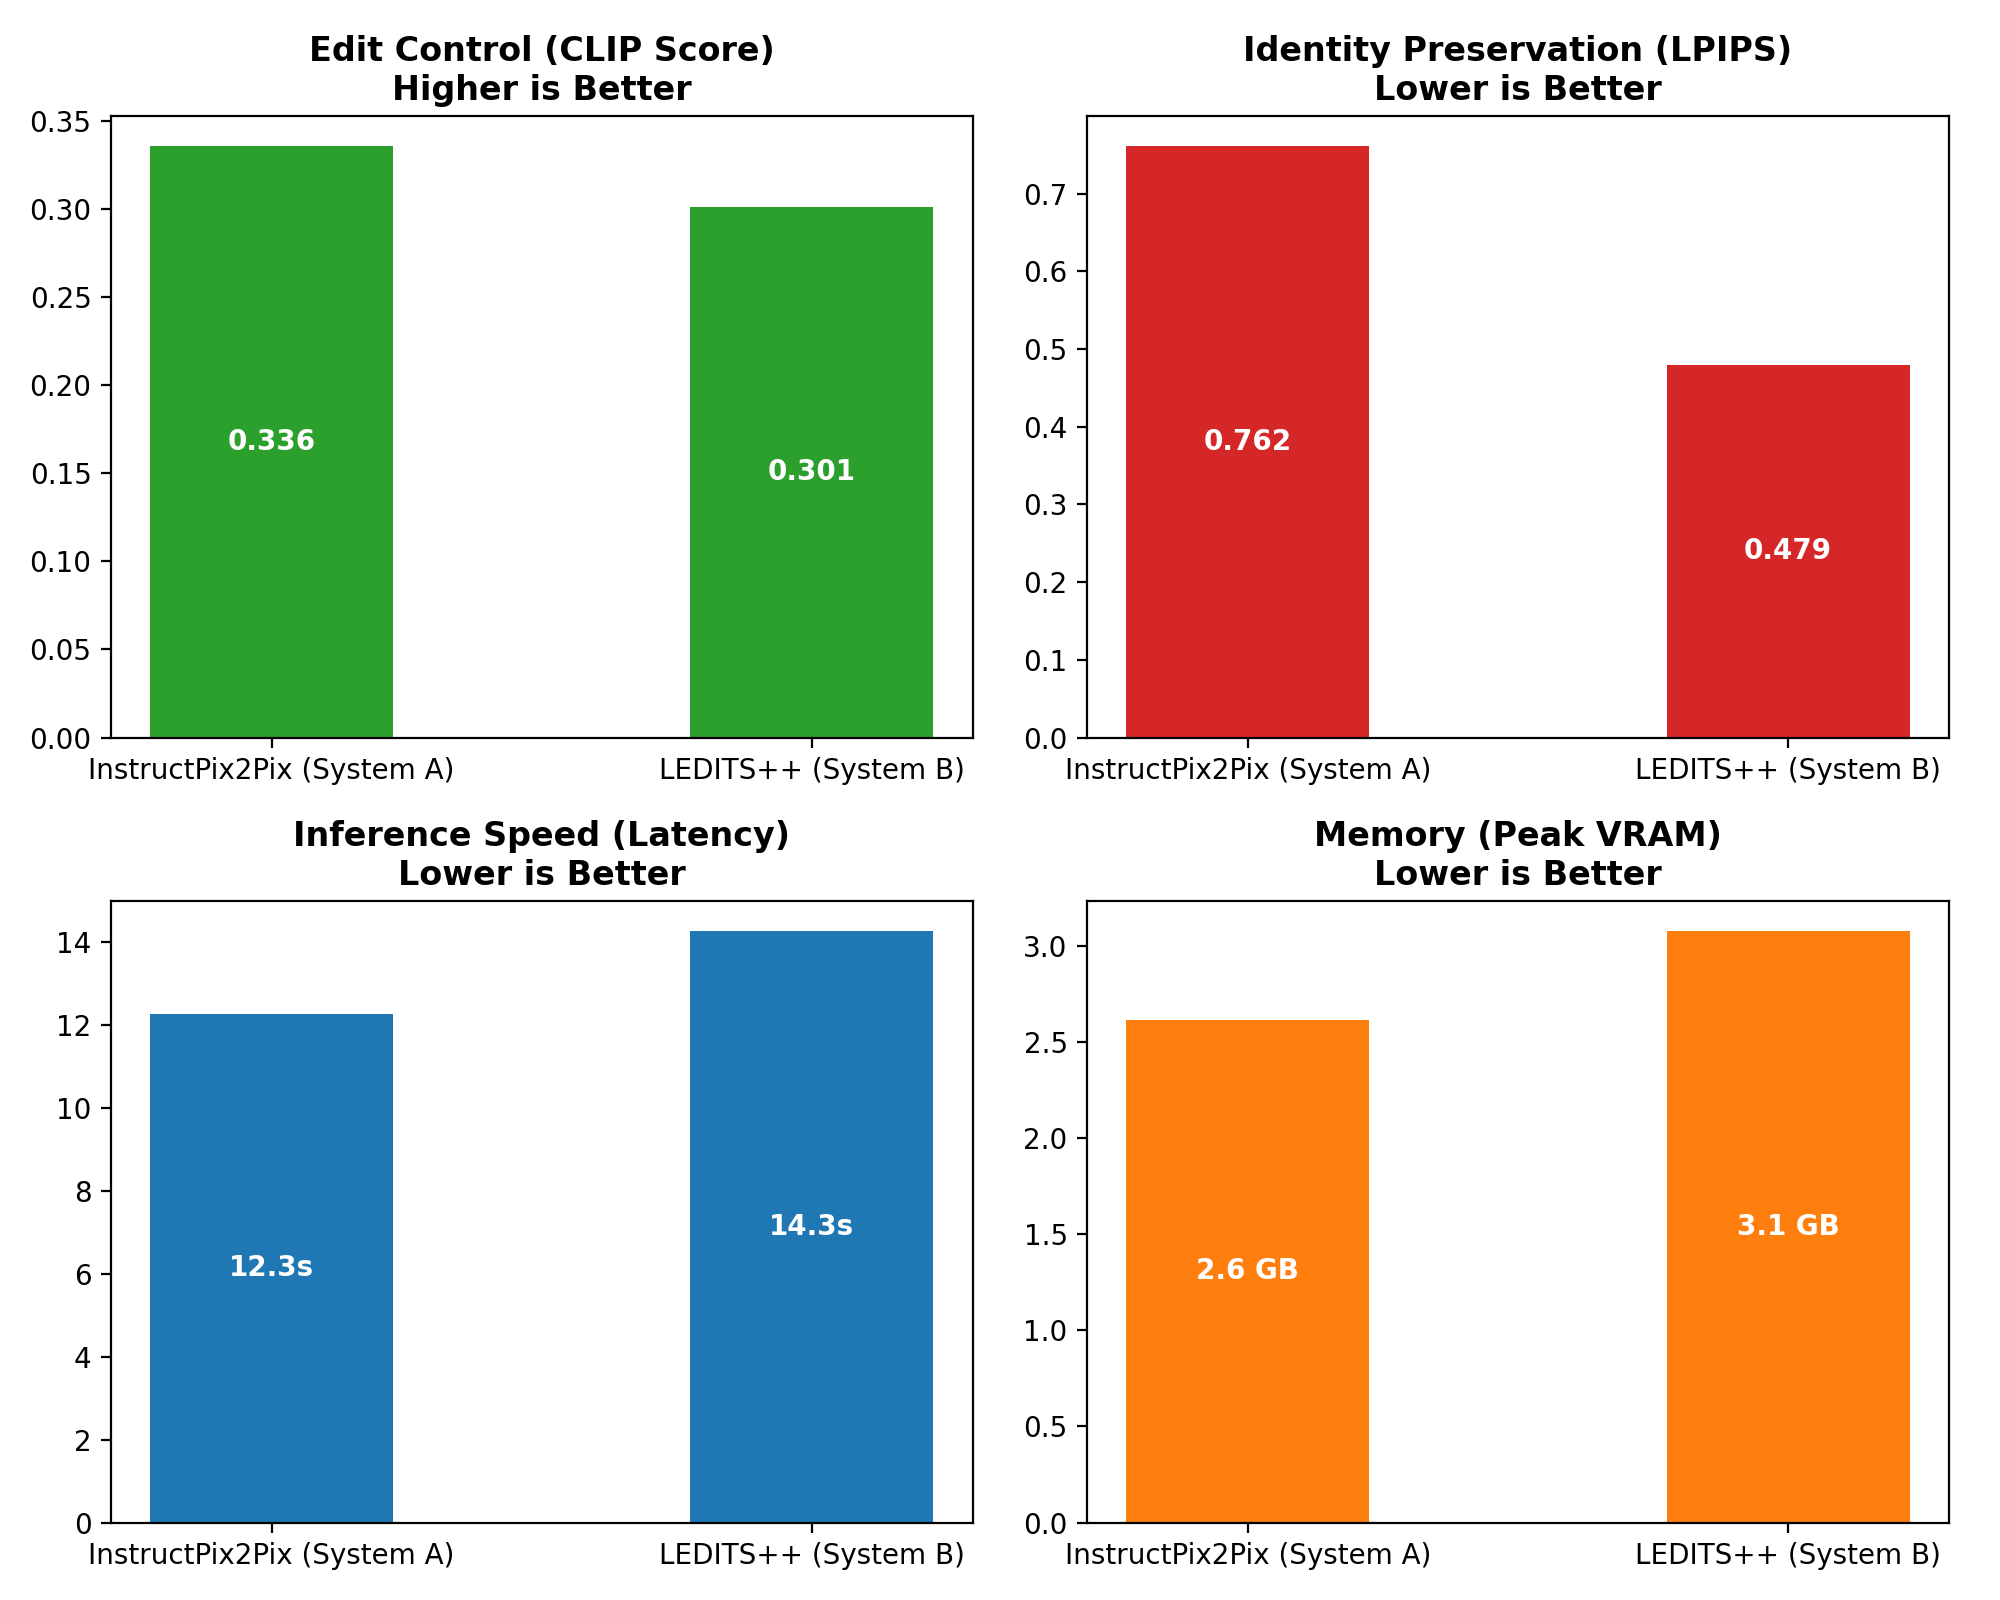
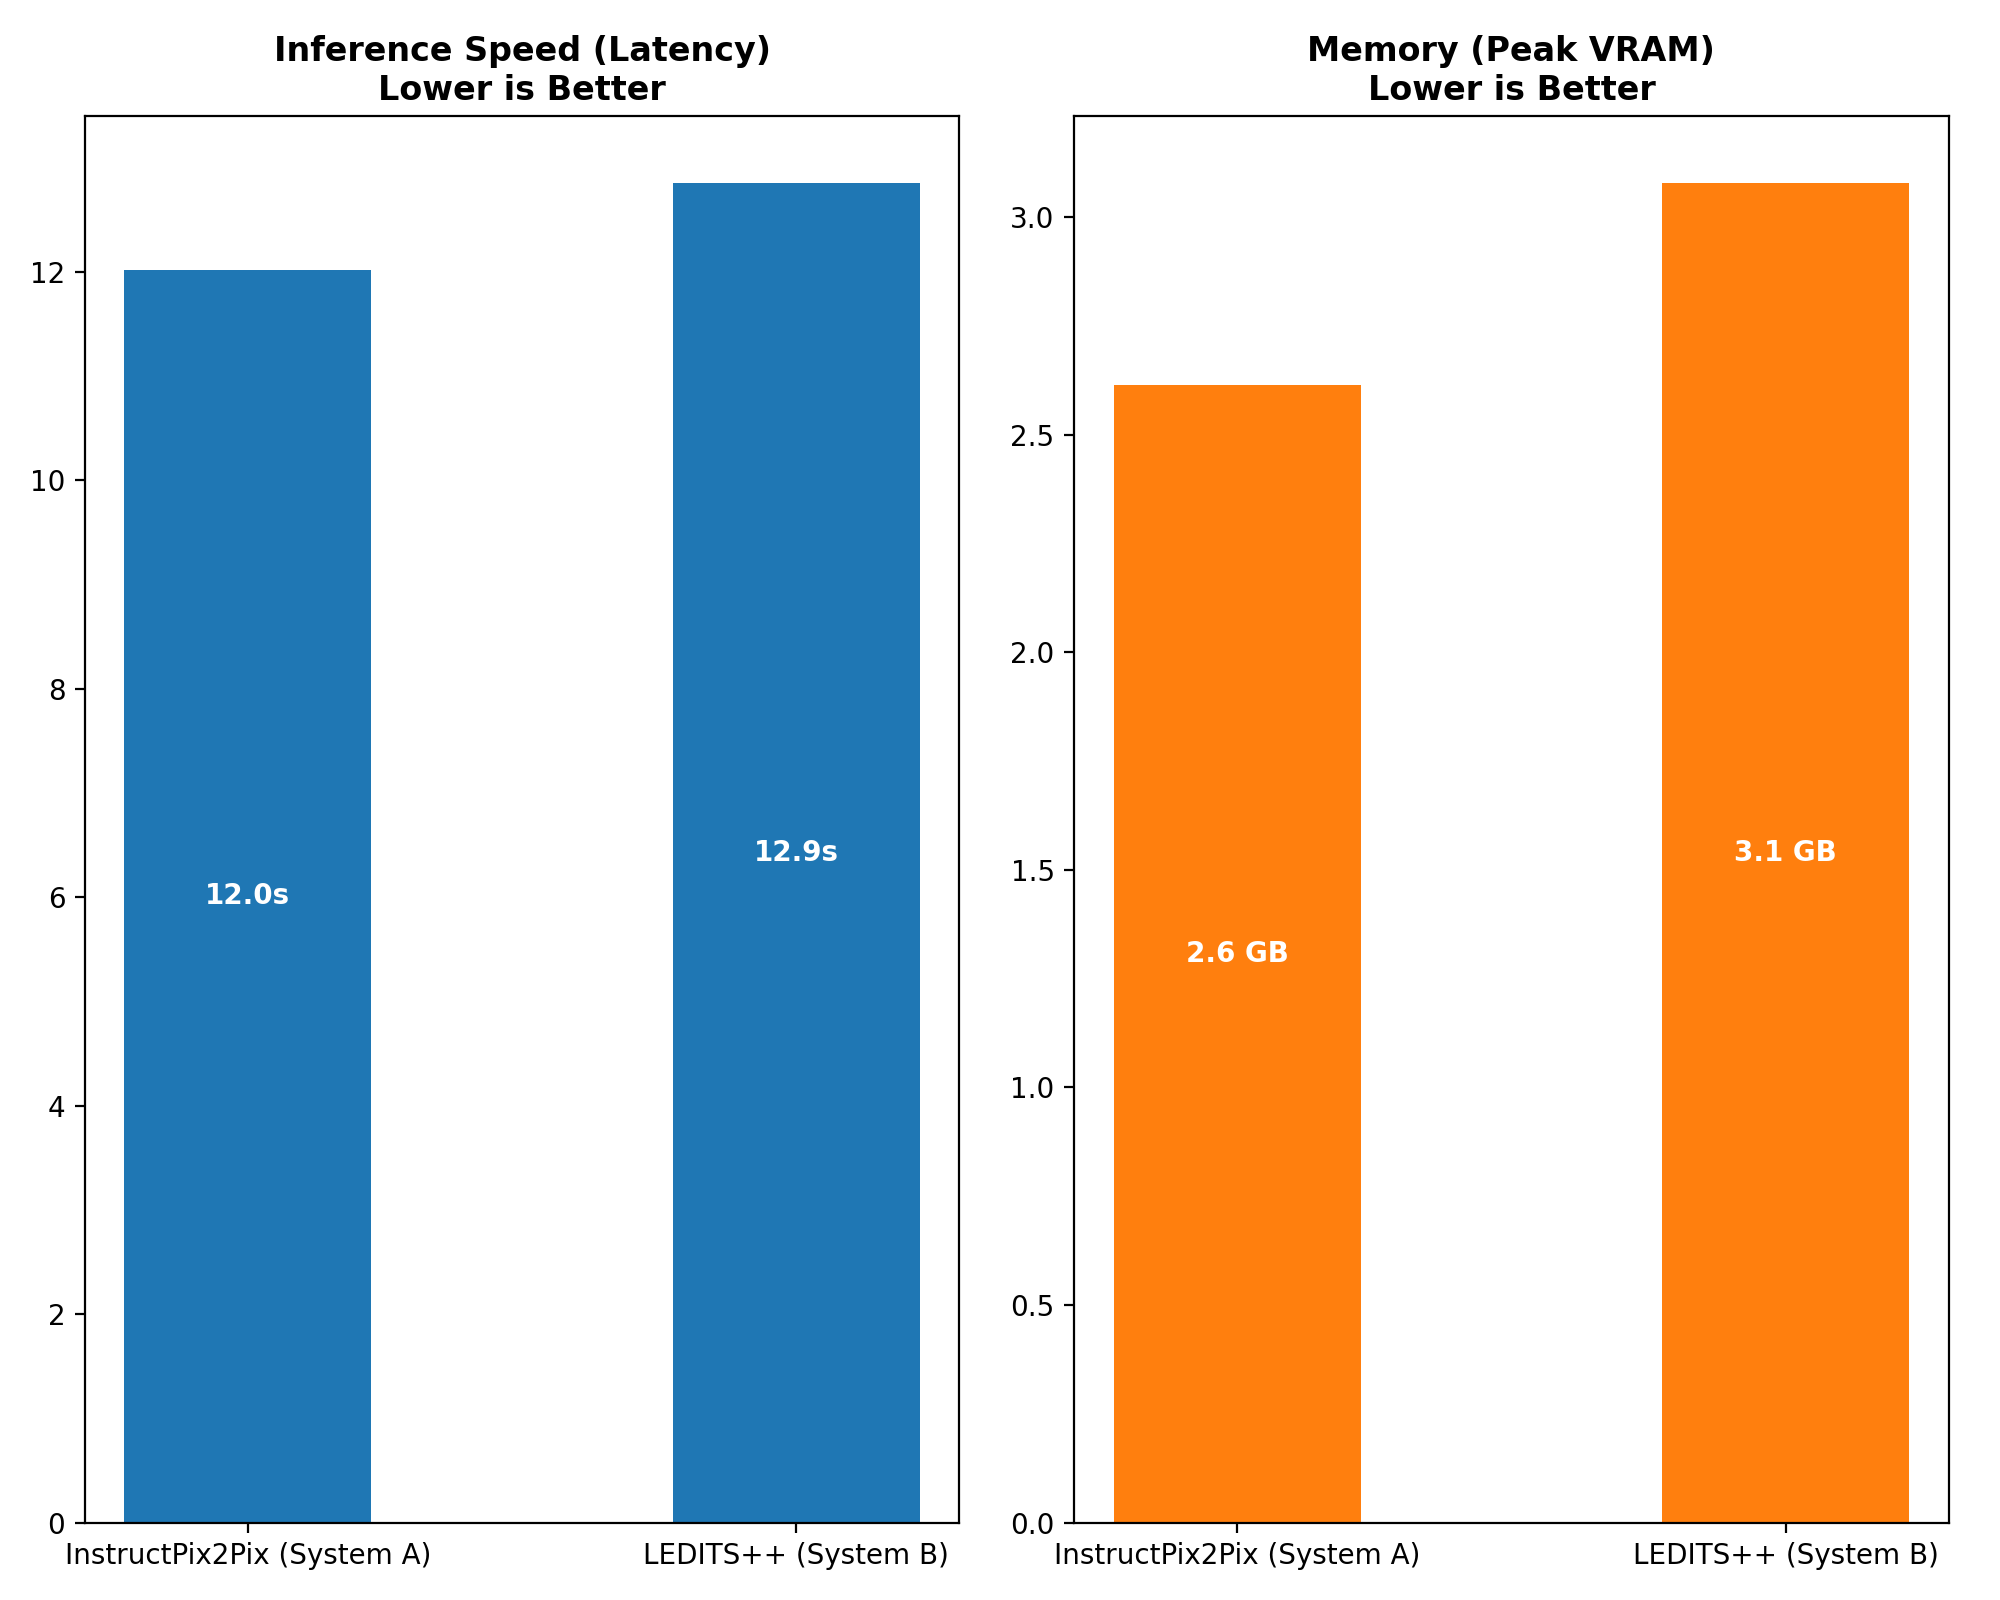
Bug fixes and code improvement

diff --git a/src/run_pair1_evaluation.py b/src/run_pair1_evaluation.py
@@ -25,13 +25,9 @@ if str(PROJECT_ROOT) not in sys.path:
 
 # Import models and evaluation metrics
 from models.pair1_models import run_instruct_pix2pix, run_ledits_pp
-from evaluation.image_metrics import ImageEditingEvaluator
 
 def load_existing_raw_images(raw_dir: Path, cases_json: list) -> list:
-  """
-  Scans raw_dir for image files and returns only:
-  'id', 'filename', 'image_path', and 'prompt'.
-  """
+
   raw_dir.mkdir(parents=True, exist_ok=True)
   valid_extensions = {".jpg", ".jpeg", ".png", ".webp"}
   existing_files = sorted([f for f in raw_dir.iterdir() if f.suffix.lower() in valid_extensions])
@@ -54,34 +50,23 @@ def load_existing_raw_images(raw_dir: Path, cases_json: list) -> list:
   return active_cases
 
 def plot_results(df: pd.DataFrame, results_dir: Path):
-    if df.empty:
-        print("[Error] DataFrame is empty. No metric rows were generated to plot.")
-        return
 
     results_dir = Path(results_dir)
     results_dir.mkdir(parents=True, exist_ok=True)
 
     cols = [str(c).lower() for c in df.columns]
     
-    clip_col = df.columns[[i for i, c in enumerate(cols) if "clip" in c][0]] if any("clip" in c for c in cols) else None
-    lpips_col = df.columns[[i for i, c in enumerate(cols) if "lpips" in c][0]] if any("lpips" in c for c in cols) else None
     latency_col = df.columns[[i for i, c in enumerate(cols) if "latency" in c][0]] if any("latency" in c for c in cols) else "Latency_s"
     vram_col = df.columns[[i for i, c in enumerate(cols) if "vram" in c][0]] if any("vram" in c for c in cols) else "Peak_VRAM_GB"
 
-    available_cols = [c for c in [clip_col, lpips_col, latency_col, vram_col] if c is not None and c in df.columns]
-    
-    if not available_cols:
-        print("[Error] Could not find metric columns to plot. Available:", df.columns.tolist())
-        return
+    available_cols = [c for c in [ latency_col, vram_col] if c is not None and c in df.columns]
 
     avg_df = df.groupby("Model")[available_cols].mean().reset_index()
 
-    fig, axes = plt.subplots(2, 2, figsize=(10, 8))
+    fig, axes = plt.subplots(1, 2, figsize=(10, 8))
     axes = axes.flatten()
 
     metrics = [
-        (clip_col, "Edit Control (CLIP Score)\nHigher is Better", "#2ca02c", "{:.3f}"),
-        (lpips_col, "Identity Preservation (LPIPS)\nLower is Better", "#d62728", "{:.3f}"),
         (latency_col, "Inference Speed (Latency)\nLower is Better", "#1f77b4", "{:.1f}s"),
         (vram_col, "Memory (Peak VRAM)\nLower is Better", "#ff7f0e", "{:.1f} GB")
     ]
@@ -117,51 +102,44 @@ def main():
     out_dir.mkdir(parents=True, exist_ok=True)
     results_dir.mkdir(parents=True, exist_ok=True)
 
-    # 1. Load Prompts JSON if available
+    # Load Prompts JSON  
     prompts_file = root / "data" / "prompts.json"
     cases_from_json = []
     if prompts_file.exists():
         with open(prompts_file, "r", encoding="utf-8") as f:
             cases_from_json = json.load(f).get("pair1_image_editing", [])
 
-    # 2. Discover manually added raw images
+    # Discover manually added raw images
     cases = load_existing_raw_images(raw_dir, cases_from_json)
 
-    # 3. Detect Device
+    # Detect Device
     device = "cuda" if torch.cuda.is_available() else "cpu"
-    print(f"\n[Execution] Running evaluation on compute device: {device.upper()}")
-
-    # 4. Run Model Executions
+    
+    # Run Model Executions
     res_sys_a = run_instruct_pix2pix(cases, raw_dir, out_dir, device=device)
     res_sys_b = run_ledits_pp(cases, raw_dir, out_dir, device=device)
 
-    # 5. Evaluate Quantitative Metrics
-    print("\n[Evaluation] Calculating CLIP text-image similarity, directional similarity, SSIM, and LPIPS...")
-    evaluator = ImageEditingEvaluator(device=device)
     rows = []
 
-    # --- RESTORED EVALUATION LOOP ---
+    # #Evalution metrics 
     for case in cases:
-        cid = case["id"]
-        source_cap = case.get("source_caption", "")
-        target_cap = case.get("prompt", case.get("instruction", case.get("target_caption", "")))
+      cid = case["id"]
 
-        for model_name, res_dict in [
-            ("InstructPix2Pix (System A)", res_sys_a),
-            ("LEDITS++ (System B)", res_sys_b),
-        ]:
-            orig_img, edit_img, latency, vram = res_dict[cid]
-            metrics = evaluator.evaluate_pair(orig_img, edit_img, source_cap, target_cap)
-            rows.append({
-                "Test_Case": cid,
-                "Image_File": case.get("filename", ""),
-                "Model": model_name,
-                **metrics,
-                "Latency_s": latency,
-                "Peak_VRAM_GB": vram,
-            })
+      for model_name, res_dict in [
+        ("InstructPix2Pix (System A)", res_sys_a),
+        ("LEDITS++ (System B)", res_sys_b),
+      ]:
+        _, _, latency, vram = res_dict[cid]
+            
+        rows.append({
+          "Test_Case": cid,
+          "Image_File": case.get("filename", ""),
+          "Model": model_name,
+          "Latency_s": latency,
+          "Peak_VRAM_GB": vram,
+        })
 
-    # 6. Build DataFrame and Render Results
+    # Build DataFrame and Render Results
     df = pd.DataFrame(rows)
     plot_results(df, results_dir)
 
